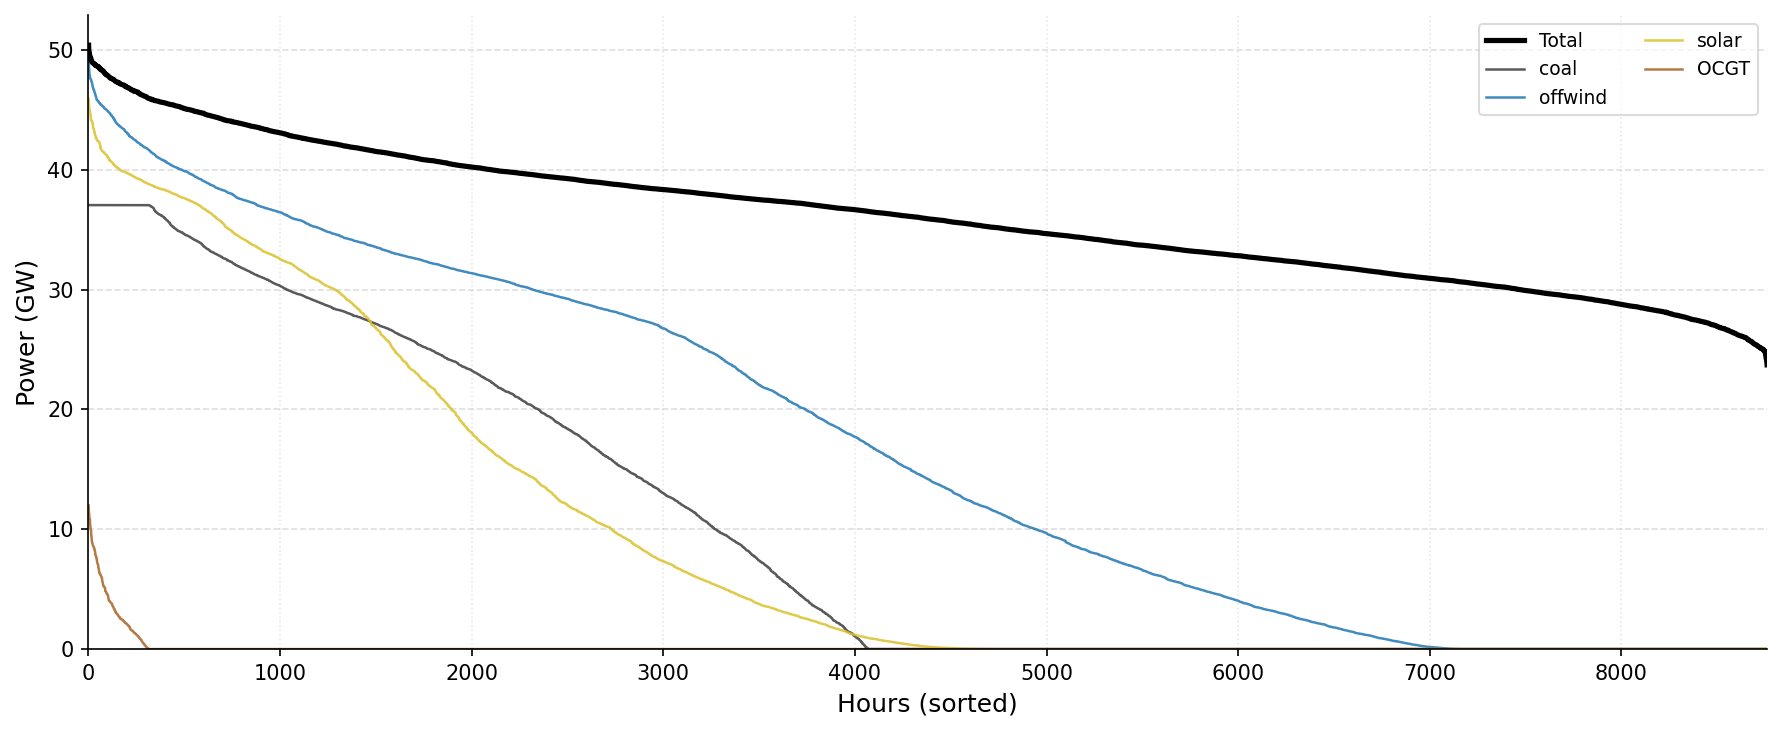
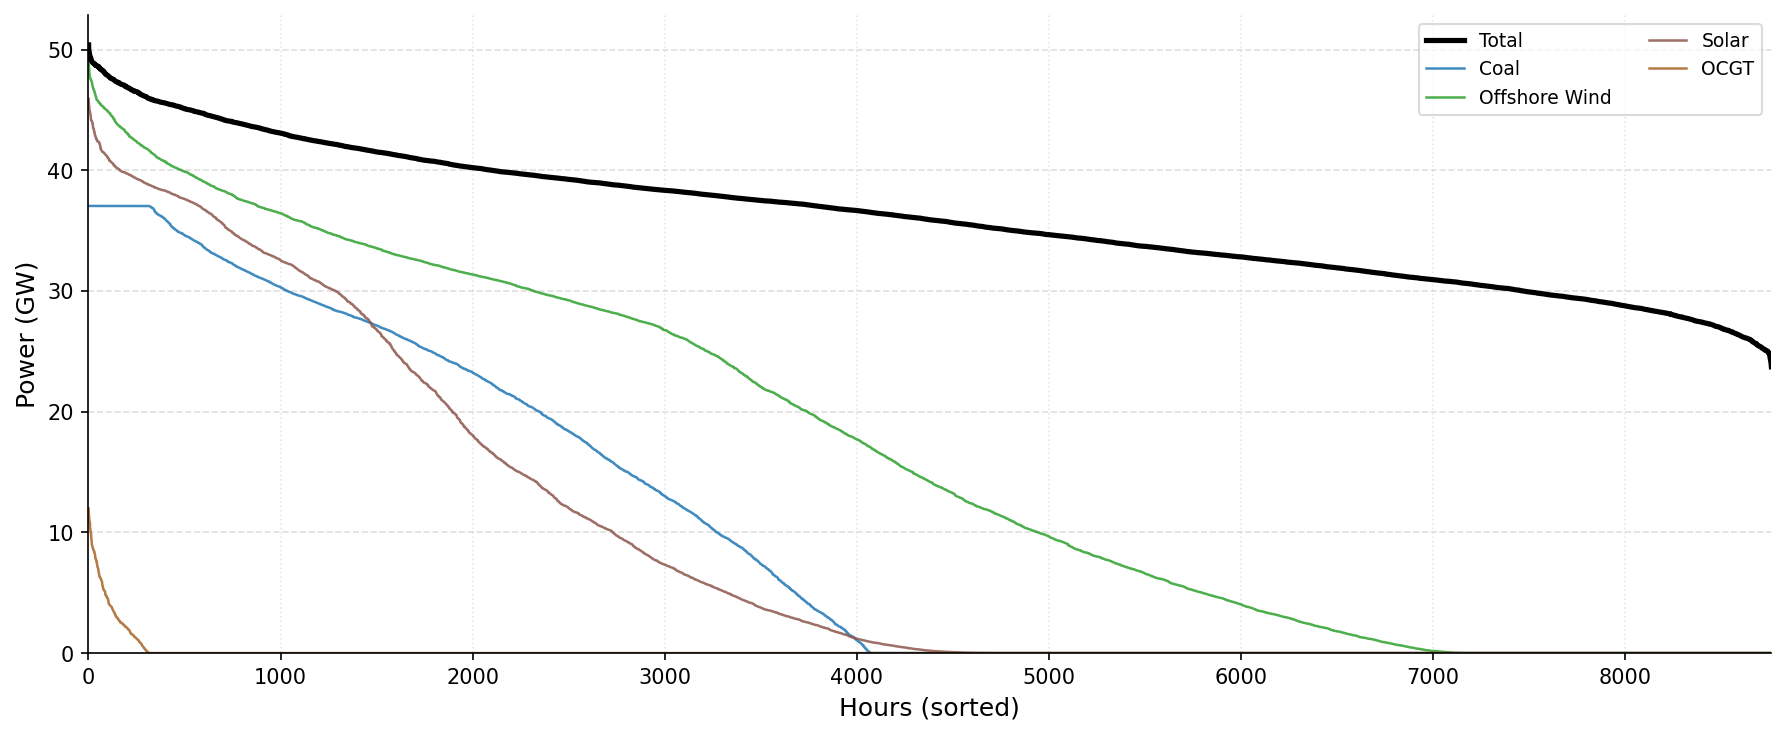
plots plots plots

diff --git a/main.py b/main.py
@@ -58,108 +58,108 @@ CONFIG_I["include_heat"] = True
 CONFIG_J = copy.deepcopy(CONFIG_I)
 
 """>>>> SOLVE THE OPTIMIZATION PROBLEMS<<<<"""
-# # TASK A
-# input_data_a = InputHandler(CONFIG_A)
-# network_a = NetworkBuilder(CONFIG_A, input_data_a, CONFIG_A["years"][0])
-# visualizer_a = Visualizer(network_a.network, scenario_name = 'a')
-# visualizer_a.plot_dispatch_time_series(pd.Timestamp("2023-07-01"), pd.Timestamp("2023-12-01"))
-# visualizer_a.plot_annual_electricity_mix()
-# visualizer_a.plot_installed_capacity()
-# visualizer_a.plot_load_duration_curve()
+# TASK A
+input_data_a = InputHandler(CONFIG_A)
+network_a = NetworkBuilder(CONFIG_A, input_data_a, CONFIG_A["years"][0])
+visualizer_a = Visualizer(network_a.network, scenario_name = 'a')
+visualizer_a.plot_dispatch_time_series(pd.Timestamp("2023-07-01"), pd.Timestamp("2023-12-01"))
+visualizer_a.plot_annual_electricity_mix()
+visualizer_a.plot_installed_capacity()
+visualizer_a.plot_load_duration_curve()
 
-# export_results_to_json(network_a.network, "task_a", CONFIG_A["years"][0]) 
+export_results_to_json(network_a.network, "task_a", CONFIG_A["years"][0]) 
 
-# # TASK B
-# input_data_b = InputHandler(CONFIG_B)
-# networks = {}
-# capacity_by_tech = {} # CHANGE: added capacity per year for the plot of each technology
+# TASK B
+input_data_b = InputHandler(CONFIG_B)
+networks = {}
+capacity_by_tech = {} # CHANGE: added capacity per year for the plot of each technology
 
-# for year in CONFIG_B["years"]:
-#     network_b = NetworkBuilder(CONFIG_B, input_data_b, year)
-#     networks[year] = network_b
+for year in CONFIG_B["years"]:
+    network_b = NetworkBuilder(CONFIG_B, input_data_b, year)
+    networks[year] = network_b
 
-#     export_results_to_json(
-#         network_b.network,
-#         "task_b",
-#         year
-#     )
+    export_results_to_json(
+        network_b.network,
+        "task_b",
+        year
+    )
 
-#     # --- GENERATORS (solar, wind, coal, nuclear)
-#     for gen in network_b.network.generators.index:
-#         cap = network_b.network.generators.loc[gen, "p_nom_opt"]
-#         capacity_by_tech.setdefault(gen, []).append(cap)
+    # --- GENERATORS (solar, wind, coal, nuclear)
+    for gen in network_b.network.generators.index:
+        cap = network_b.network.generators.loc[gen, "p_nom_opt"]
+        capacity_by_tech.setdefault(gen, []).append(cap)
 
-#     # --- LINKS (CCGT, OCGT, CHP, etc)
-#     for link in network_b.network.links.index:
-#         cap = network_b.network.links.loc[link, "p_nom_opt"]
-#         capacity_by_tech.setdefault(link, []).append(cap)
+    # --- LINKS (CCGT, OCGT, CHP, etc)
+    for link in network_b.network.links.index:
+        cap = network_b.network.links.loc[link, "p_nom_opt"]
+        capacity_by_tech.setdefault(link, []).append(cap)
 
-# print("\nCAPACITY_BY_TECH")
-# for tech, vals in capacity_by_tech.items():
-#     print(tech, vals)
+print("\nCAPACITY_BY_TECH")
+for tech, vals in capacity_by_tech.items():
+    print(tech, vals)
 
-# visualizer_b = Visualizer(networks[CONFIG_B["years"][0]].network, scenario_name="b")
-# visualizer_b.capacity_dict = capacity_by_tech
-# visualizer_b.plot_sensitivity_capacity_to_weather_years()
-# visualizer_cf = Visualizer(networks[CONFIG_B["years"][0]].network, scenario_name="b")
-# visualizer_cf.plot_capacity_factors(input_data_b)
+visualizer_b = Visualizer(networks[CONFIG_B["years"][0]].network, scenario_name="b")
+visualizer_b.capacity_dict = capacity_by_tech
+visualizer_b.plot_sensitivity_capacity_to_weather_years()
+visualizer_cf = Visualizer(networks[CONFIG_B["years"][0]].network, scenario_name="b")
+visualizer_cf.plot_capacity_factors(input_data_b)
 
-# # TASK C
-# input_data_c = InputHandler(CONFIG_C)
-# network_c = NetworkBuilder(CONFIG_C, input_data_c, CONFIG_C["years"][0])
-# visualizer_c = Visualizer(network_c.network, scenario_name = 'c')
-# visualizer_c.plot_dispatch_time_series(pd.Timestamp("2023-07-01"), pd.Timestamp("2023-12-01"))
-# visualizer_c.plot_dispatch_diff_time_series(
-#     other=visualizer_a,
-#     start_summer=pd.Timestamp("2023-07-01"),
-#     start_winter=pd.Timestamp("2023-12-01"),
-# )
-# visualizer_c.plot_annual_electricity_mix()
-# visualizer_c.plot_storage_behavior(
-#     start_summer=pd.Timestamp("2023-07-01"),
-#     start_winter=pd.Timestamp("2023-12-01"),
-# )
-# visualizer_c.plot_installed_capacity()
+# TASK C
+input_data_c = InputHandler(CONFIG_C)
+network_c = NetworkBuilder(CONFIG_C, input_data_c, CONFIG_C["years"][0])
+visualizer_c = Visualizer(network_c.network, scenario_name = 'c')
+visualizer_c.plot_dispatch_time_series(pd.Timestamp("2023-07-01"), pd.Timestamp("2023-12-01"))
+visualizer_c.plot_dispatch_diff_time_series(
+    other=visualizer_a,
+    start_summer=pd.Timestamp("2023-07-01"),
+    start_winter=pd.Timestamp("2023-12-01"),
+)
+visualizer_c.plot_annual_electricity_mix()
+visualizer_c.plot_storage_behavior(
+    start_summer=pd.Timestamp("2023-07-01"),
+    start_winter=pd.Timestamp("2023-12-01"),
+)
+visualizer_c.plot_installed_capacity()
 
-# export_results_to_json(network_c.network, "task_c", CONFIG_C["years"][0])
+export_results_to_json(network_c.network, "task_c", CONFIG_C["years"][0])
 
-# # TASK D
-# input_data_d = InputHandler(CONFIG_D)
-# network_d = NetworkBuilder(CONFIG_D, input_data_d, CONFIG_D["years"][0])
-# visualizer_d = Visualizer(network_d.network, scenario_name = 'd')
-# visualizer_d.plot_annual_electricity_mix()
-# visualizer_d.plot_installed_capacity()
-# visualizer_d.plot_line_utilisation_bar()
-# visualizer_d.plot_network_diagram()
+# TASK D
+input_data_d = InputHandler(CONFIG_D)
+network_d = NetworkBuilder(CONFIG_D, input_data_d, CONFIG_D["years"][0])
+visualizer_d = Visualizer(network_d.network, scenario_name = 'd')
+visualizer_d.plot_annual_electricity_mix()
+visualizer_d.plot_installed_capacity()
+visualizer_d.plot_line_utilisation_bar()
+visualizer_d.plot_network_diagram()
 
-# export_results_to_json(network_d.network, "task_d", CONFIG_D["years"][0])
+export_results_to_json(network_d.network, "task_d", CONFIG_D["years"][0])
 
-# # TASK F
-# input_data_f = InputHandler(CONFIG_F)
-# REF_CO2 = CONFIG_F["global_CO2_limit"]
+# TASK F
+input_data_f = InputHandler(CONFIG_F)
+REF_CO2 = CONFIG_F["global_CO2_limit"]
 
-# networks_f = {}
-# for percent in np.arange(1.0, -0.1, -0.1):
-#     co2_limit = percent * REF_CO2
-#     CONFIG_F["global_CO2_limit"] = co2_limit
-#     network_f = NetworkBuilder(CONFIG_F, input_data_f, CONFIG_F["years"][0])
-#     networks_f[round(percent, 1)] = network_f
+networks_f = {}
+for percent in np.arange(1.0, -0.1, -0.1):
+    co2_limit = percent * REF_CO2
+    CONFIG_F["global_CO2_limit"] = co2_limit
+    network_f = NetworkBuilder(CONFIG_F, input_data_f, CONFIG_F["years"][0])
+    networks_f[round(percent, 1)] = network_f
 
 # grouped bar chart: C vs F at 100%
-# visualizer_c = Visualizer(network_c.network, scenario_name="c")
-# visualizer_f_full = Visualizer(networks_f[max(networks_f.keys())].network, scenario_name="f")
-# visualizer_c.plot_scenario_comparison(
-#     other=visualizer_f_full,
-#     self_label="C (no CO₂ limit)",
-#     other_label="F (1990 CO₂ limit)",
-#     name="comparison_c_vs_f",
-# )
+visualizer_c = Visualizer(network_c.network, scenario_name="c")
+visualizer_f = Visualizer(networks_f[max(networks_f.keys())].network, scenario_name="f")
+visualizer_f.plot_scenario_comparison(
+    other=visualizer_c,
+    self_label="C (no CO₂ limit)",
+    other_label="F (1990 CO₂ limit)",
+    name="comparison_c_vs_f",
+)
 # sensitivity plot
-# visualizer_c.plot_co2_sensitivity(
-#     networks_f=networks_f,
-#     ref_co2=REF_CO2,
-#     name="co2_sensitivity",
-# )
+visualizer_f.plot_co2_sensitivity(
+    networks_f=networks_f,
+    ref_co2=REF_CO2,
+    name="co2_sensitivity",
+)
 
 # # TASK G
 # input_data_g = InputHandler(CONFIG_G)
@@ -177,11 +177,11 @@ CONFIG_J = copy.deepcopy(CONFIG_I)
 # co2_shadow_price = abs(network_h.network.global_constraints.loc["CO2Limit", "mu"])
 # print(f"CO2 shadow price for task H: {co2_shadow_price:.2f} €/tCO2")
 
-# TASK i
-input_data_i = InputHandler(CONFIG_I)
-network_i = NetworkBuilder(CONFIG_I, input_data_i, CONFIG_I["years"][0])
+# # TASK i
+# input_data_i = InputHandler(CONFIG_I)
+# network_i = NetworkBuilder(CONFIG_I, input_data_i, CONFIG_I["years"][0])
 
-export_results_to_json(network_i.network, "task_i", CONFIG_I["years"][0])
+# export_results_to_json(network_i.network, "task_i", CONFIG_I["years"][0])
 
 # # TASK J
 # input_data_j = InputHandler(CONFIG_J)

diff --git a/src/visualizer.py b/src/visualizer.py
@@ -65,6 +65,21 @@ class Visualizer:
             "coal":           "#3D3D3D",
         }
 
+        self.DISPLAY_NAMES = {
+            "CCGT":                                    "CCGT",
+            "OCGT":                                    "OCGT",
+            "nuclear":                                 "Nuclear",
+            "coal":                                    "Coal",
+            "biomass CHP":                             "Biomass CHP",
+            "gas boiler steam":                        "Gas Boiler Steam",
+            "industrial heat pump high temperature":   "Heat Pump (HT)",
+            "offwind":                                 "Offshore Wind",
+            "onwind":                                  "Onshore Wind",
+            "solar":                                   "Solar",
+            "Pumped-Storage-Hydro-bicharger":          "Pumped Hydro",
+            "Lithium-Ion-LFP-bicharger":               "Li-Ion (LFP)",
+        }
+
     def _make_path(self, default_name: str) -> str:
         if self.scenario_name:
             prefix = self.scenario_name + "_"
@@ -95,7 +110,8 @@ class Visualizer:
             normalized = key
             tech_parts = parts
 
-        return self.LABEL_MAP.get(normalized, "_".join(tech_parts))
+        raw = self.LABEL_MAP.get(normalized, "_".join(tech_parts))
+        return self.DISPLAY_NAMES.get(raw, raw)
 
 
     def plot_dispatch_time_series(
@@ -155,6 +171,9 @@ class Visualizer:
         # plot the dispatch series
         for idx, season_dict in enumerate([summer_dict, winter_dict]):
             for (label, series), color in zip(season_dict.items(), colors):
+                if series.sum() <= 0:
+                    continue
+
                 axes[idx].plot(
                     series.index,
                     series.values / 1000,  # Convert MWh to GWh
@@ -544,14 +563,13 @@ class Visualizer:
 
         Saves the figure to 'results/sensitivity_capacity_to_weather_years.png'.
         """
-        labels = [self._get_label(key) for key in self.capacity_dict.keys()]
-
+        labels = []
         data = []
-        for v in self.capacity_dict.values():
-            if all(val == 0 for val in v):
-                data.append([np.nan] * len(v))  # 👈 clave
-            else:
-                data.append(v)
+        for key, vals in self.capacity_dict.items():
+            if all(v == 0 for v in vals):
+                continue
+            labels.append(self._get_label(key))
+            data.append(vals)
 
         fig, ax = plt.subplots(figsize=(9, 5))
 
@@ -710,6 +728,8 @@ class Visualizer:
 
             for key, color in zip(all_keys, colors):
                 diff = compute_diff(key, start, end)
+                if diff.abs().sum() <= 0:
+                    continue
                 ax.plot(
                     diff.index,
                     diff.values / 1000,          # MWh → GWh
@@ -884,6 +904,9 @@ class Visualizer:
         values_self  = [get_twh(self, k)  for k in unique_keys]
         values_other = [get_twh(other, k) for k in unique_keys]
 
+        filtered = [(l, k, vs, vo) for l, k, vs, vo in zip(unique_labels, unique_keys, values_self, values_other) if vs > 0 or vo > 0]
+        unique_labels, unique_keys, values_self, values_other = map(list, zip(*filtered)) if filtered else ([], [], [], [])
+
         x      = np.arange(len(unique_labels))
         width  = 0.35
         colors = [self.TECH_COLORS.get(l, cm.tab10(i / len(unique_labels)))
@@ -941,15 +964,21 @@ class Visualizer:
         Stacked area chart showing dispatch (TWh) per technology as a function
         of the CO2 constraint expressed as % of the 1990 reference level.
         """
-        # collect all technology labels across all solved networks
-        all_keys = sorted({
-            k
-            for nf in networks_f.values()
-            for k in nf.network.generators.index
-        })
-        all_labels = [self._get_label(k) for k in all_keys]
+        all_keys = []
+        for percent, nf in networks_f.items():
+            n = nf.network
+            for gen in n.generators.index:
+                if n.generators_t.p[gen].sum() > 0 and gen not in all_keys:
+                    all_keys.append(gen)
+            for link in n.links.index:
+                bus1 = n.links.loc[link, "bus1"]
+                bus1_name = bus1.replace("bus_", "")
+                if "_" not in bus1_name and link in n.links_t.p1.columns:
+                    if (-n.links_t.p1[link]).sum() > 0 and link not in all_keys:
+                        all_keys.append(link)
+        all_keys = sorted(all_keys)
 
-        # deduplicate
+        all_labels = [self._get_label(k) for k in all_keys]
         seen = {}
         for key, label in zip(all_keys, all_labels):
             if label not in seen:
@@ -957,17 +986,21 @@ class Visualizer:
         unique_labels = list(seen.keys())
         unique_keys   = list(seen.values())
 
-        # x-axis: CO2 % levels, sorted ascending
         percents = sorted(networks_f.keys())
-        x_vals   = [p * 100 for p in percents]   # 0 → 100
+        x_vals   = [p * 100 for p in percents]
 
-        # dispatch matrix: shape (n_techs, n_co2_levels)
         dispatch = np.zeros((len(unique_keys), len(percents)))
         for j, percent in enumerate(percents):
             nf = networks_f[percent]
+            n  = nf.network
             for i, key in enumerate(unique_keys):
-                if key in nf.network.generators_t.p.columns:
-                    dispatch[i, j] = nf.network.generators_t.p[key].sum() / 1e6
+                if key in n.generators_t.p.columns:
+                    dispatch[i, j] = n.generators_t.p[key].sum() / 1e6
+                elif key in n.links.index:
+                    bus1 = n.links.loc[key, "bus1"]
+                    bus1_name = bus1.replace("bus_", "")
+                    if "_" not in bus1_name and key in n.links_t.p1.columns:
+                        dispatch[i, j] = (-n.links_t.p1[key]).sum() / 1e6
 
         colors = [
             self.TECH_COLORS.get(l, cm.tab10(i / len(unique_labels)))
